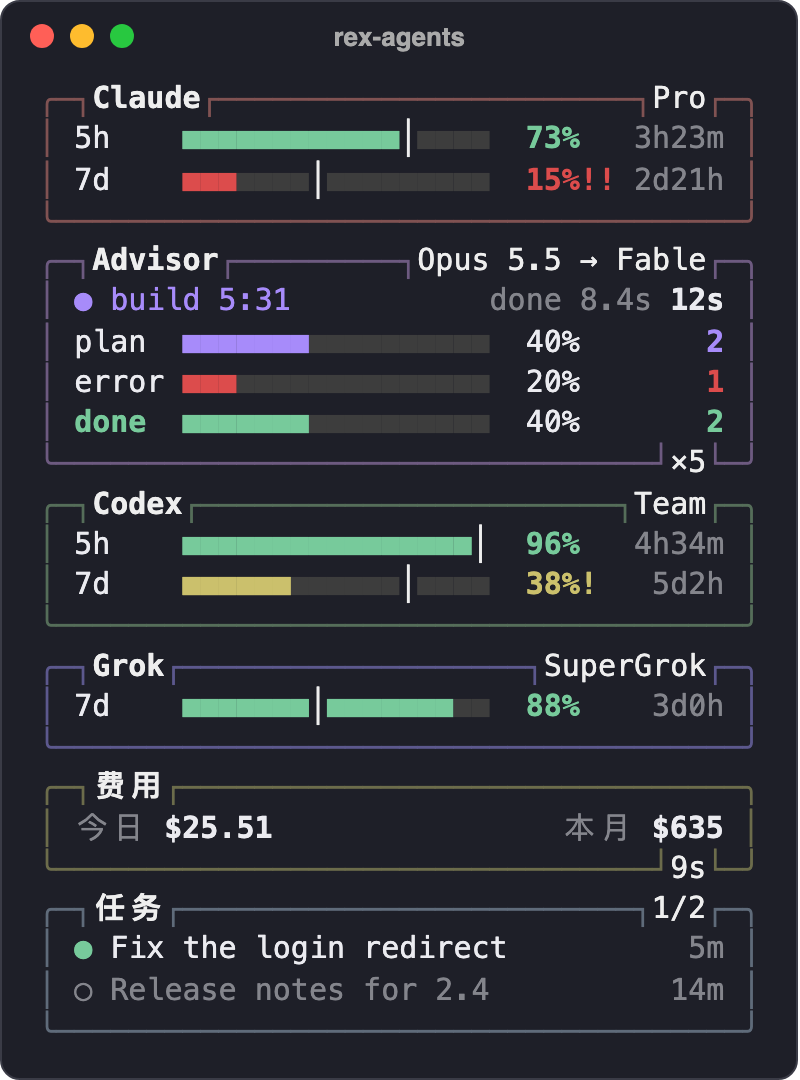
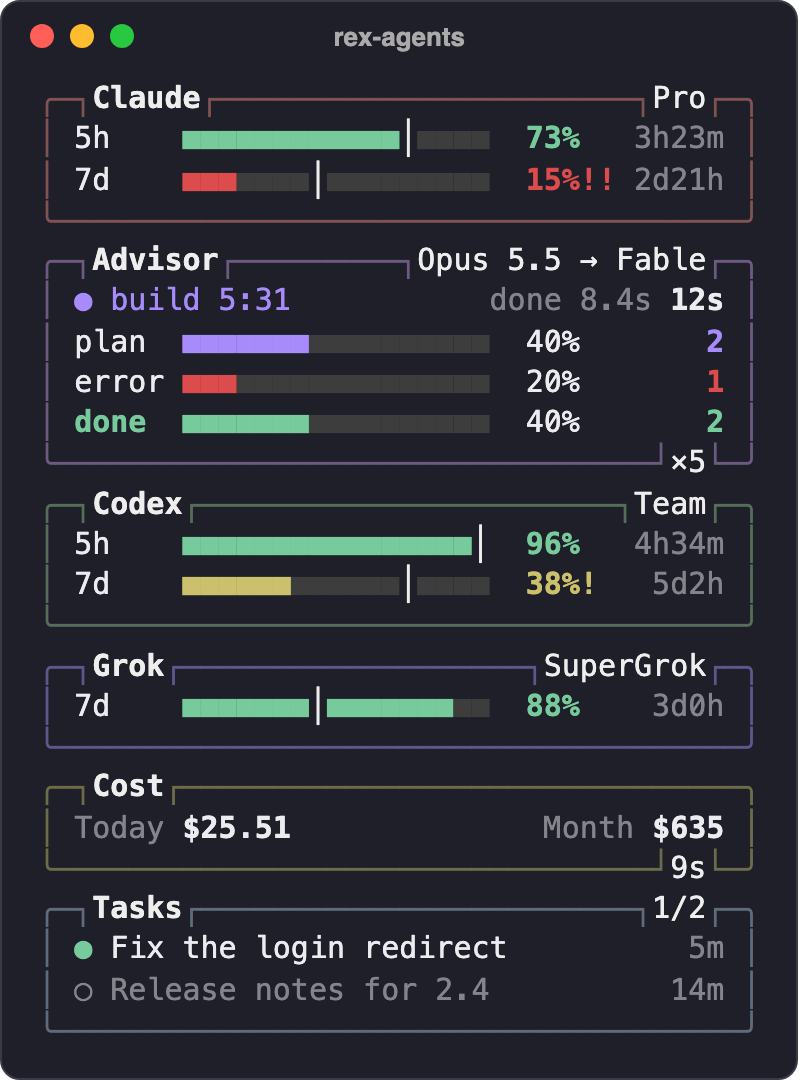
Show the panel's labels in English
Cost, Tasks, Today, Month, the loading, narrow, stale and failed states, and
the CLI help were Chinese while the rest of the panel was English. Rex has no
language setting to follow, so the panel is English throughout. The README
screenshot is rendered again and no longer has CJK characters that misalign.

Changed region(s): [[0.0938, 0.7028, 0.375, 0.7944], [0.6875, 0.7333, 0.7812, 0.7944], [0.125, 0.825, 0.25, 0.8556]]

diff --git a/rex_agents/pane.py b/rex_agents/pane.py
@@ -156,9 +156,9 @@ def build_pane(snap: Optional[dict[str, Any]], error: Optional[str], width: int,
     advisor-live shares of the Claude Code sessions in this tab."""
     width, height = max(width, 1), max(height, 1)
     if snap is None:
-        lines: list[Line] = [[Span(error, ERROR)] if error else [Span("读取中", MUTED)]]
+        lines: list[Line] = [[Span(error, ERROR)] if error else [Span("Loading", MUTED)]]
     elif width < 24:
-        lines = [[Span("面板太窄", MUTED)]]
+        lines = [[Span("Too narrow", MUTED)]]
     else:
         lines = _layout(snap, error, width, height, now, advisors)
     lines = [fit(_merge(line), width) for line in lines[:height]]
@@ -214,9 +214,9 @@ def _layout(snap: dict[str, Any], error: Optional[str], width: int, height: int,
         return "—" if left is None else f"{round(left)}%"
 
     today, month = costs(snap.get("usage", {}).get("rows", []), now)
-    cost_row = _spread([Span("今日 ", MUTED), Span(money(today), None, True)],
-                       [Span("本月 ", MUTED), Span(money(month), None, True)], boxes.inner)
-    age = "刷新失败" if error else ago(now - snap["generated_at"])
+    cost_row = _spread([Span("Today ", MUTED), Span(money(today), None, True)],
+                       [Span("Month ", MUTED), Span(money(month), None, True)], boxes.inner)
+    age = "failed" if error else ago(now - snap["generated_at"])
 
     account_rows = sum(max(1, len(live(a))) + 2 for a in accounts)
     account_rows += sum(len(_moments(st)) + 3 for st in advisors)
@@ -258,10 +258,10 @@ def _layout(snap: dict[str, Any], error: Optional[str], width: int, height: int,
                 Span(pad_text(reset, TAIL_W - 2, True), MUTED),
             ])
         if not rows:
-            rows = [[Span(a.get("note") or "没有额度数据", MUTED)]]
+            rows = [[Span(a.get("note") or "No quota data", MUTED)]]
         plan = " · ".join(p for p in (a.get("plan") and plan_text(a["plan"]), a.get("workspace")) if p)
         out += boxes.box(a["agent"].capitalize(), BOX.get(a["agent"], OTHER_BOX), rows, plan,
-                         "过期" if stale else "", WARN)
+                         "stale" if stale else "", WARN)
         # The advisors of this tab's Claude sessions, under Claude's quota.
         if a["agent"] == "claude":
             for st in advisors:
@@ -269,7 +269,7 @@ def _layout(snap: dict[str, Any], error: Optional[str], width: int, height: int,
                 out += boxes.box("Advisor", BOX["advisor"], _advisor_rows(st, boxes.inner, label_w, meter_w, now),
                                  f"{st['main']} → {st['advisor']}", f"×{total}" if total else "")
 
-    out += boxes.box("费用", BOX["cost"], [cost_row], "", age, ERROR if error else TITLE)
+    out += boxes.box("Cost", BOX["cost"], [cost_row], "", age, ERROR if error else TITLE)
 
     # Running tasks first, then the newest; the box takes every row left over.
     room = max(1, height - len(out) - 2)
@@ -282,8 +282,8 @@ def _layout(snap: dict[str, Any], error: Optional[str], width: int, height: int,
                                   Span(t.get("title") or t["project"], MUTED if idle else None)],
                                  [Span(since, MUTED)], boxes.inner))
     if not task_rows:
-        task_rows = [[Span("没有运行中的 agent", MUTED)]]
+        task_rows = [[Span("No agents running", MUTED)]]
     task_rows += [[] for _ in range(room - len(task_rows))]
     running = sum(t["state"] == "running" for t in tasks)
-    out += boxes.box("任务", BOX["tasks"], task_rows, f"{running}/{len(tasks)}" if tasks else "")
+    out += boxes.box("Tasks", BOX["tasks"], task_rows, f"{running}/{len(tasks)}" if tasks else "")
     return out

diff --git a/tests/test_pane.py b/tests/test_pane.py
@@ -43,10 +43,10 @@ def test_boxes_per_agent_then_cost_then_tasks():
     assert any(" Fable 7d " in t and "15%!!" in t for t in text)
     # A window past its reset is gone; a stale account says so and why.
     assert not any("│ 7d " in t for t in text)
-    assert any("┘过期└" in t for t in text)
+    assert any("┘stale└" in t for t in text)
     assert any("HTTP 401" in t for t in text)
     assert any("┘30s└" in t for t in text)
-    tasks = text.index(next(t for t in text if "┐任务┌" in t))
+    tasks = text.index(next(t for t in text if "┐Tasks┌" in t))
     assert "┐1/2┌" in text[tasks]
     assert "● 迁移到侧边栏" in text[tasks + 1] and "○ 旧任务" in text[tasks + 2]
     # The task box runs to the pane's foot.
@@ -56,11 +56,11 @@ def test_boxes_per_agent_then_cost_then_tasks():
 def test_a_short_pane_folds_to_a_line_per_agent():
     text = [plain(line).rstrip() for line in build_pane(snapshot(), "boom", 38, 6, NOW)]
     assert text[0] == "Claude 5h 80% · Fable 7d 15%"
-    assert text[2].endswith("刷新失败")
+    assert text[2].endswith("failed")
 
 
 def test_nothing_yet_and_failure_say_so():
-    assert plain(build_pane(None, None, 30, 2, NOW)[0]).strip() == "读取中"
+    assert plain(build_pane(None, None, 30, 2, NOW)[0]).strip() == "Loading"
     assert plain(build_pane(None, "boom", 30, 2, NOW)[0]).strip() == "boom"
 
 

diff --git a/rex_agents/cli.py b/rex_agents/cli.py
@@ -24,11 +24,11 @@ def wants_color() -> bool:
 
 
 def main() -> int:
-    parser = argparse.ArgumentParser(prog="rex-agents", description="Rex 里的 Agents 面板：额度、advisor、费用和任务")
+    parser = argparse.ArgumentParser(prog="rex-agents", description="The Agents panel for Rex: quota, advisor, cost and tasks")
     parser.add_argument("--version", action="version", version=__version__)
     parser.parse_args()
     if not sys.stdout.isatty():
-        print("rex-agents 需要在终端里运行", file=sys.stderr)
+        print("rex-agents needs to run in a terminal", file=sys.stderr)
         return 2
     sys.stdout.reconfigure(errors="replace")  # type: ignore[union-attr]
     advisors = AdvisorFeed()

diff --git a/README.zh-CN.md b/README.zh-CN.md
@@ -36,8 +36,8 @@ dofile("/Users/you/Developer/rex-agents/rex/init.lua").setup({ bin = { "/Users/y
 
 - **每个 agent 一个框**，每个额度窗口一行：剩余量的进度条、剩余比例和距离重置的时间。亮色刻度表示按匀速消耗此刻应在的位置。`!` 表示剩余 40% 或更少，`!!` 表示 20% 或更少。标题上显示套餐，有工作区时也显示工作区。
 - **Advisor**，当前标签页里有 Claude Code 会话设置了 advisor 时显示在 Claude 框下方：主模型和 advisor，主模型是否在工作，advisor 上次回答是多久以前，以及每个应当介入的时机各有多少次调用：计划定下之前、同一错误出现两次、宣布完成之前，以及其间的 check-in。设置了 advisor 但连续三个工作回合都没被调用时显示 `idle · N turns`：它很可能比主模型弱，永远不会被唤起。
-- **费用**：今天和本月的费用，按公开 API 价格估算。框底显示数据多久以前更新。
-- **任务**：各 agent 的会话，`●` 运行中，`○` 空闲，一直排到面板底部。
+- **Cost**（费用）：今天和本月的费用，按公开 API 价格估算。框底显示数据多久以前更新。
+- **Tasks**（任务）：各 agent 的会话，`●` 运行中，`○` 空闲，一直排到面板底部。
 
 面板太矮时，每个 agent 折叠成一行。每 60 秒刷新一次。无论开了多少个面板，再加上其他使用 agents-meter 的工具，Claude 和 Grok 的额度加起来每分钟只查询一次。在面板里按 `q` 退出。
 

diff --git a/README.md b/README.md
@@ -36,8 +36,8 @@ The panel shows this machine's agents, so it opens only in sessions on this mach
 
 - **One box per agent**, a row per quota window: a meter of what is left, the share left and the time to the reset. The bright notch is where an even pace would be now. `!` marks 40% or less left, `!!` 20% or less. The title carries the plan, and the workspace where there is one.
 - **Advisor**, under Claude's box while a Claude Code session in the tab has an advisor: the main model and the advisor, whether the main model is working, how long ago the advisor last answered, and how many calls fell under each moment it is meant to wake up: before the plan locks, the same error twice, before calling it done, and check-ins between. An advisor set but not called through three working turns reads `idle · N turns`: it is likely less capable than the main model and never activates.
-- **费用** (cost): today's and this month's, estimated at public API prices. The foot says how old the data is.
-- **任务** (tasks): the agents' sessions, `●` running and `○` idle, down to the panel's foot.
+- **Cost**: today's and this month's, estimated at public API prices. The foot says how old the data is.
+- **Tasks**: the agents' sessions, `●` running and `○` idle, down to the panel's foot.
 
 A short panel folds to one line per agent. It refreshes every 60 seconds. However many panels are open, alongside any other tool using agents-meter, Claude and Grok are asked for their quota once a minute between them all. Press `q` in the panel to quit it.
 
